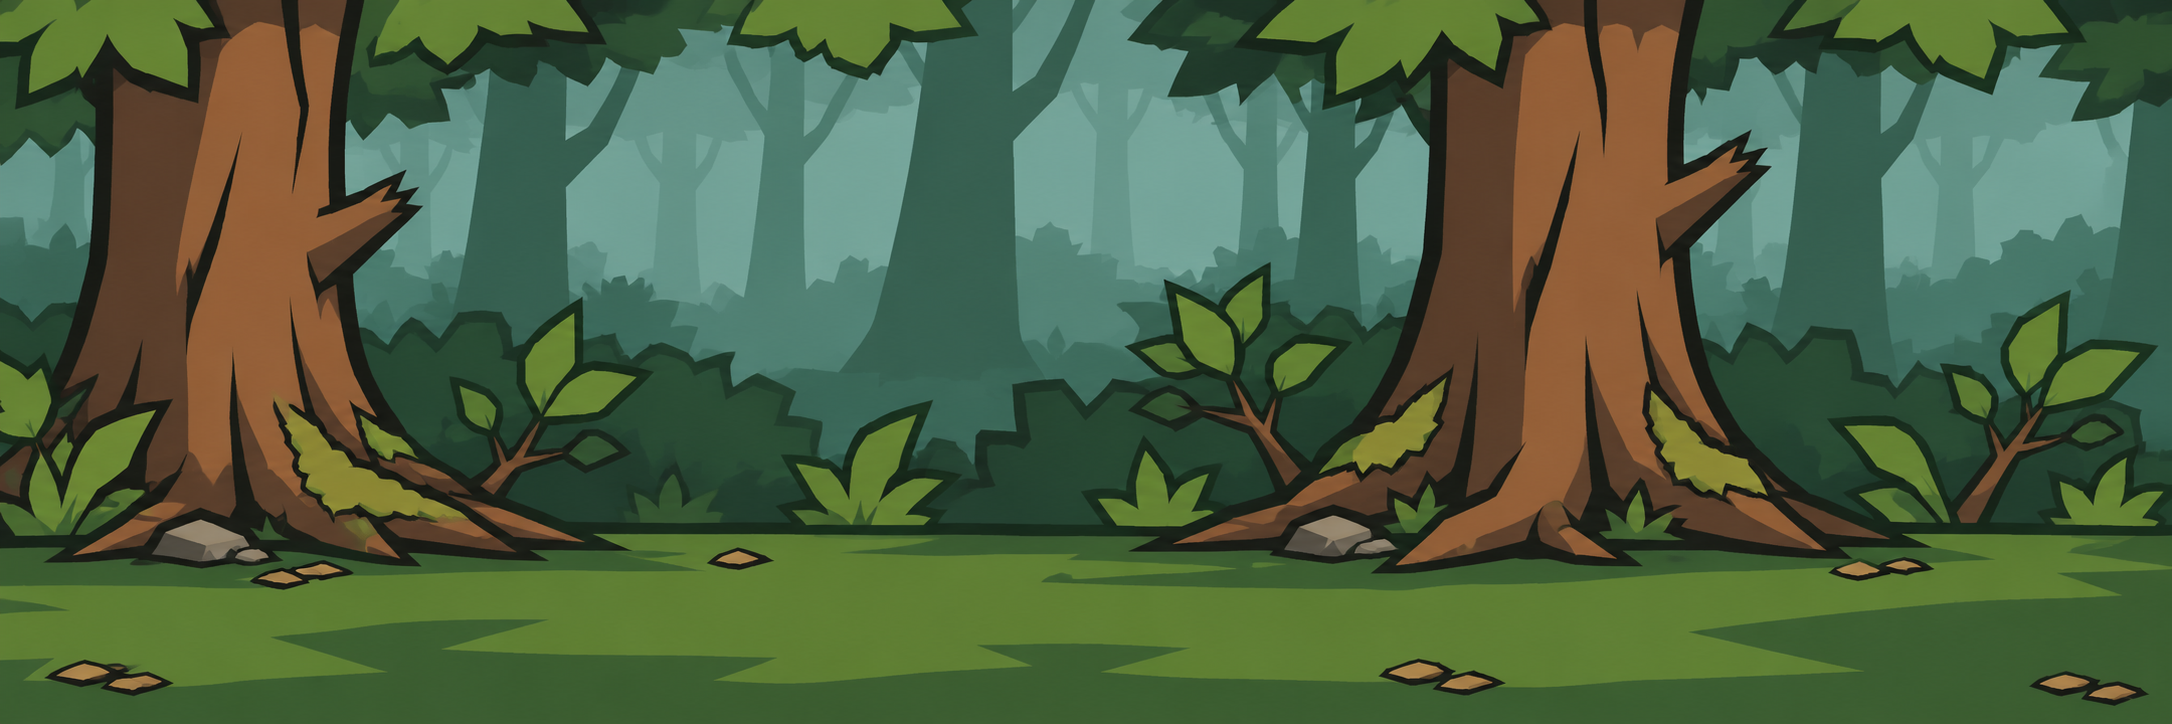
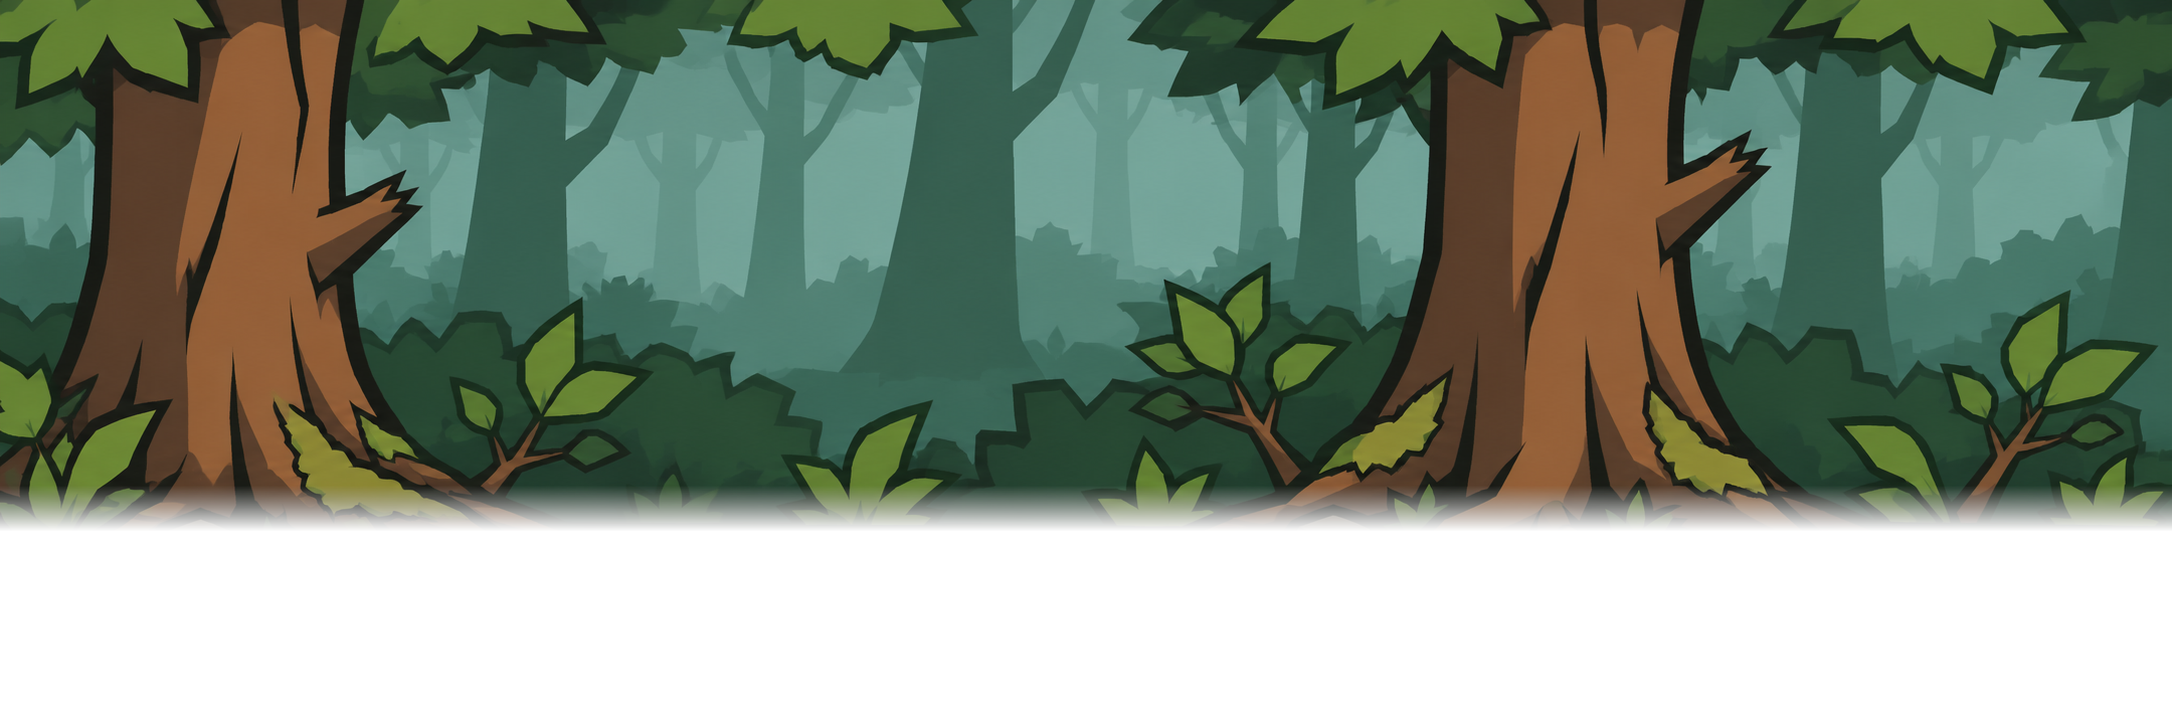
Split the forest floor out of bg_mid into its own layer
bg_mid had a large flat ground slab painted into its lower 40%. That slab was
doing the job of a floor while a separate ground layer also existed, so the
scene read as two competing grounds with a dead featureless green band across
the middle.

Cut the slab out of bg_mid at the line where it meets the bushes and feather
the remaining backdrop into shadow, so bg_mid is now trunks, bushes and misty
distance only. Promote the painted forest floor (dirt path, grass verges,
rocks and leaf litter) to its own unparallaxed layer at FloorTop, tiled across
the level, with bg_ground kept in front of it as the bramble fringe. Raise
bg_mid so its shadowed base meets the floor's top edge.

The floor art tiles cleanly (wrap seam 1.6/255 vs 0.3 internally), so it
repeats without mirroring.

Claude-Session: https://claude.ai/code/session_01HejqDV8hTh4DfG9Y5W1Mw9

diff --git a/Assets/Scripts/World.cs b/Assets/Scripts/World.cs
@@ -60,6 +60,9 @@ public static class World
     // World-space tile widths for hand-drawn backgrounds whose native resolution/PPU differs from
     // the original procedural art (which was all authored at 2048px / 100ppu = 20.48 world units).
     public const float TileMid = 27.15f, TileCanopy = 12.63f, TileGround = 16.71f;
+    // Top edge of the floor layer, tucked just behind the lane's back edge (MaxY) so the floor
+    // runs a little further back than the player can walk and never ends inside the lane.
+    public const float FloorTop = -1.25f;
 
     public static void Build(Transform root, Transform cam)
     {
@@ -69,9 +72,17 @@ public static class World
         var sky = Art.New("bg_sky", cam, new Vector3(0, 0, 10), -100, "Background");
         sky.transform.localScale = new Vector3(600, 4.2f, 1);
         Layer(root, "bg_far", 0.86f, 0.25f, -90, "Background", -Tile, len * 0.14f + 2 * Tile, true);
-        Layer(root, "bg_mid", 0.62f, 0.12f, -80, "Background", -TileMid, len * 0.38f + 2 * TileMid, true, TileMid, true);
+        // bg_mid is backdrop only — trunks, bushes and misty distance. Its lower edge fades into
+        // shadow at FloorTop, where the floor layer takes over.
+        Layer(root, "bg_mid", 0.62f, 0.862f, -80, "Background", -TileMid, len * 0.38f + 2 * TileMid, true, TileMid, true);
+        // The walkable forest floor is its own layer rather than being painted into the backdrop,
+        // so the lane sits on real ground instead of a flat slab. Not parallaxed: it has to track
+        // the world 1:1 or props and actors would slide across it.
         var ground = new GameObject("Ground").transform; ground.SetParent(root, false);
-        for (float x = -2 * TileGround; x < len + TileGround; x += TileGround) Art.New("bg_ground", ground, new Vector3(x, -0.2f, 0), -50, "Background");
+        for (float x = -2 * TileGround; x < len + 2 * TileGround; x += TileGround) Art.New("ground", ground, new Vector3(x, FloorTop, 0), -60, "Background");
+        // bramble fringe along the bottom of the frame, in front of the floor
+        var fringe = new GameObject("Fringe").transform; fringe.SetParent(root, false);
+        for (float x = -2 * TileGround; x < len + TileGround; x += TileGround) Art.New("bg_ground", fringe, new Vector3(x, -0.2f, 0), -50, "Background");
         Layer(root, "bg_canopy", 0.12f, 5.15f, -10, "Foreground", -TileCanopy, len * 0.88f + 2 * TileCanopy, true, TileCanopy, true);
         Layer(root, "bg_fg", -0.3f, -5.95f, 0, "Foreground", -Tile, len * 1.3f + 2 * Tile, true);
         var vig = Art.New("fx_vignette", cam, new Vector3(0, 0, 9), 100, "Foreground");
